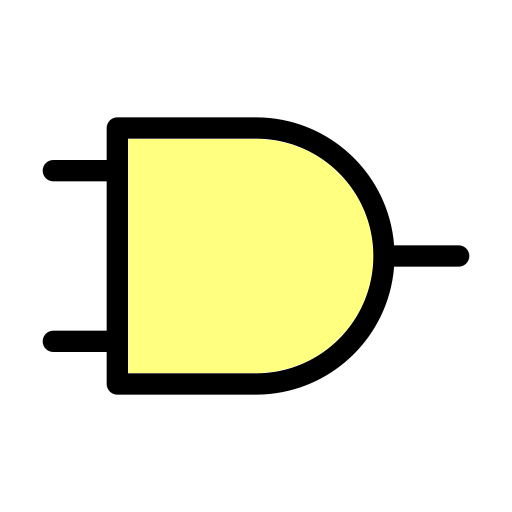
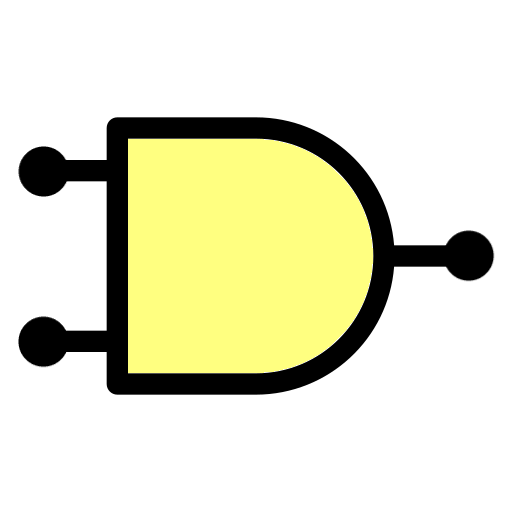
added bulbs to gates to blend connecting wires and adjusted hitboxes

Changed region(s): [[0.875, 0.4375, 0.9688, 0.5625], [0.0312, 0.2812, 0.125, 0.4062], [0.0312, 0.5938, 0.125, 0.7188]]

diff --git a/LogicLand/src/application/resources/sandboxController.java b/LogicLand/src/application/resources/sandboxController.java
@@ -587,7 +587,7 @@ public class sandboxController implements Initializable{
 		connectLine.setStrokeWidth(5);
 		
 		// Set the bindings. These four lines are Kinda copied code. Need to document or change.
-		connectLine.startXProperty().bind(outputTerminal.layoutXProperty().add(outputPane.layoutXProperty().add(outputTerminal.getBoundsInParent().getWidth() / 2 )));
+		connectLine.startXProperty().bind(outputTerminal.layoutXProperty().add(outputPane.layoutXProperty().add(outputTerminal.getBoundsInParent().getWidth() / 1.5 )));
 		connectLine.startYProperty().bind(outputTerminal.layoutYProperty().add(outputPane.layoutYProperty().add(outputTerminal.getBoundsInParent().getHeight() / 2)));
 
 		connectLine.endXProperty().bind(inputTerminal.layoutXProperty().add(inputPane.layoutXProperty().add(inputTerminal.getBoundsInParent().getWidth() / 4)));
